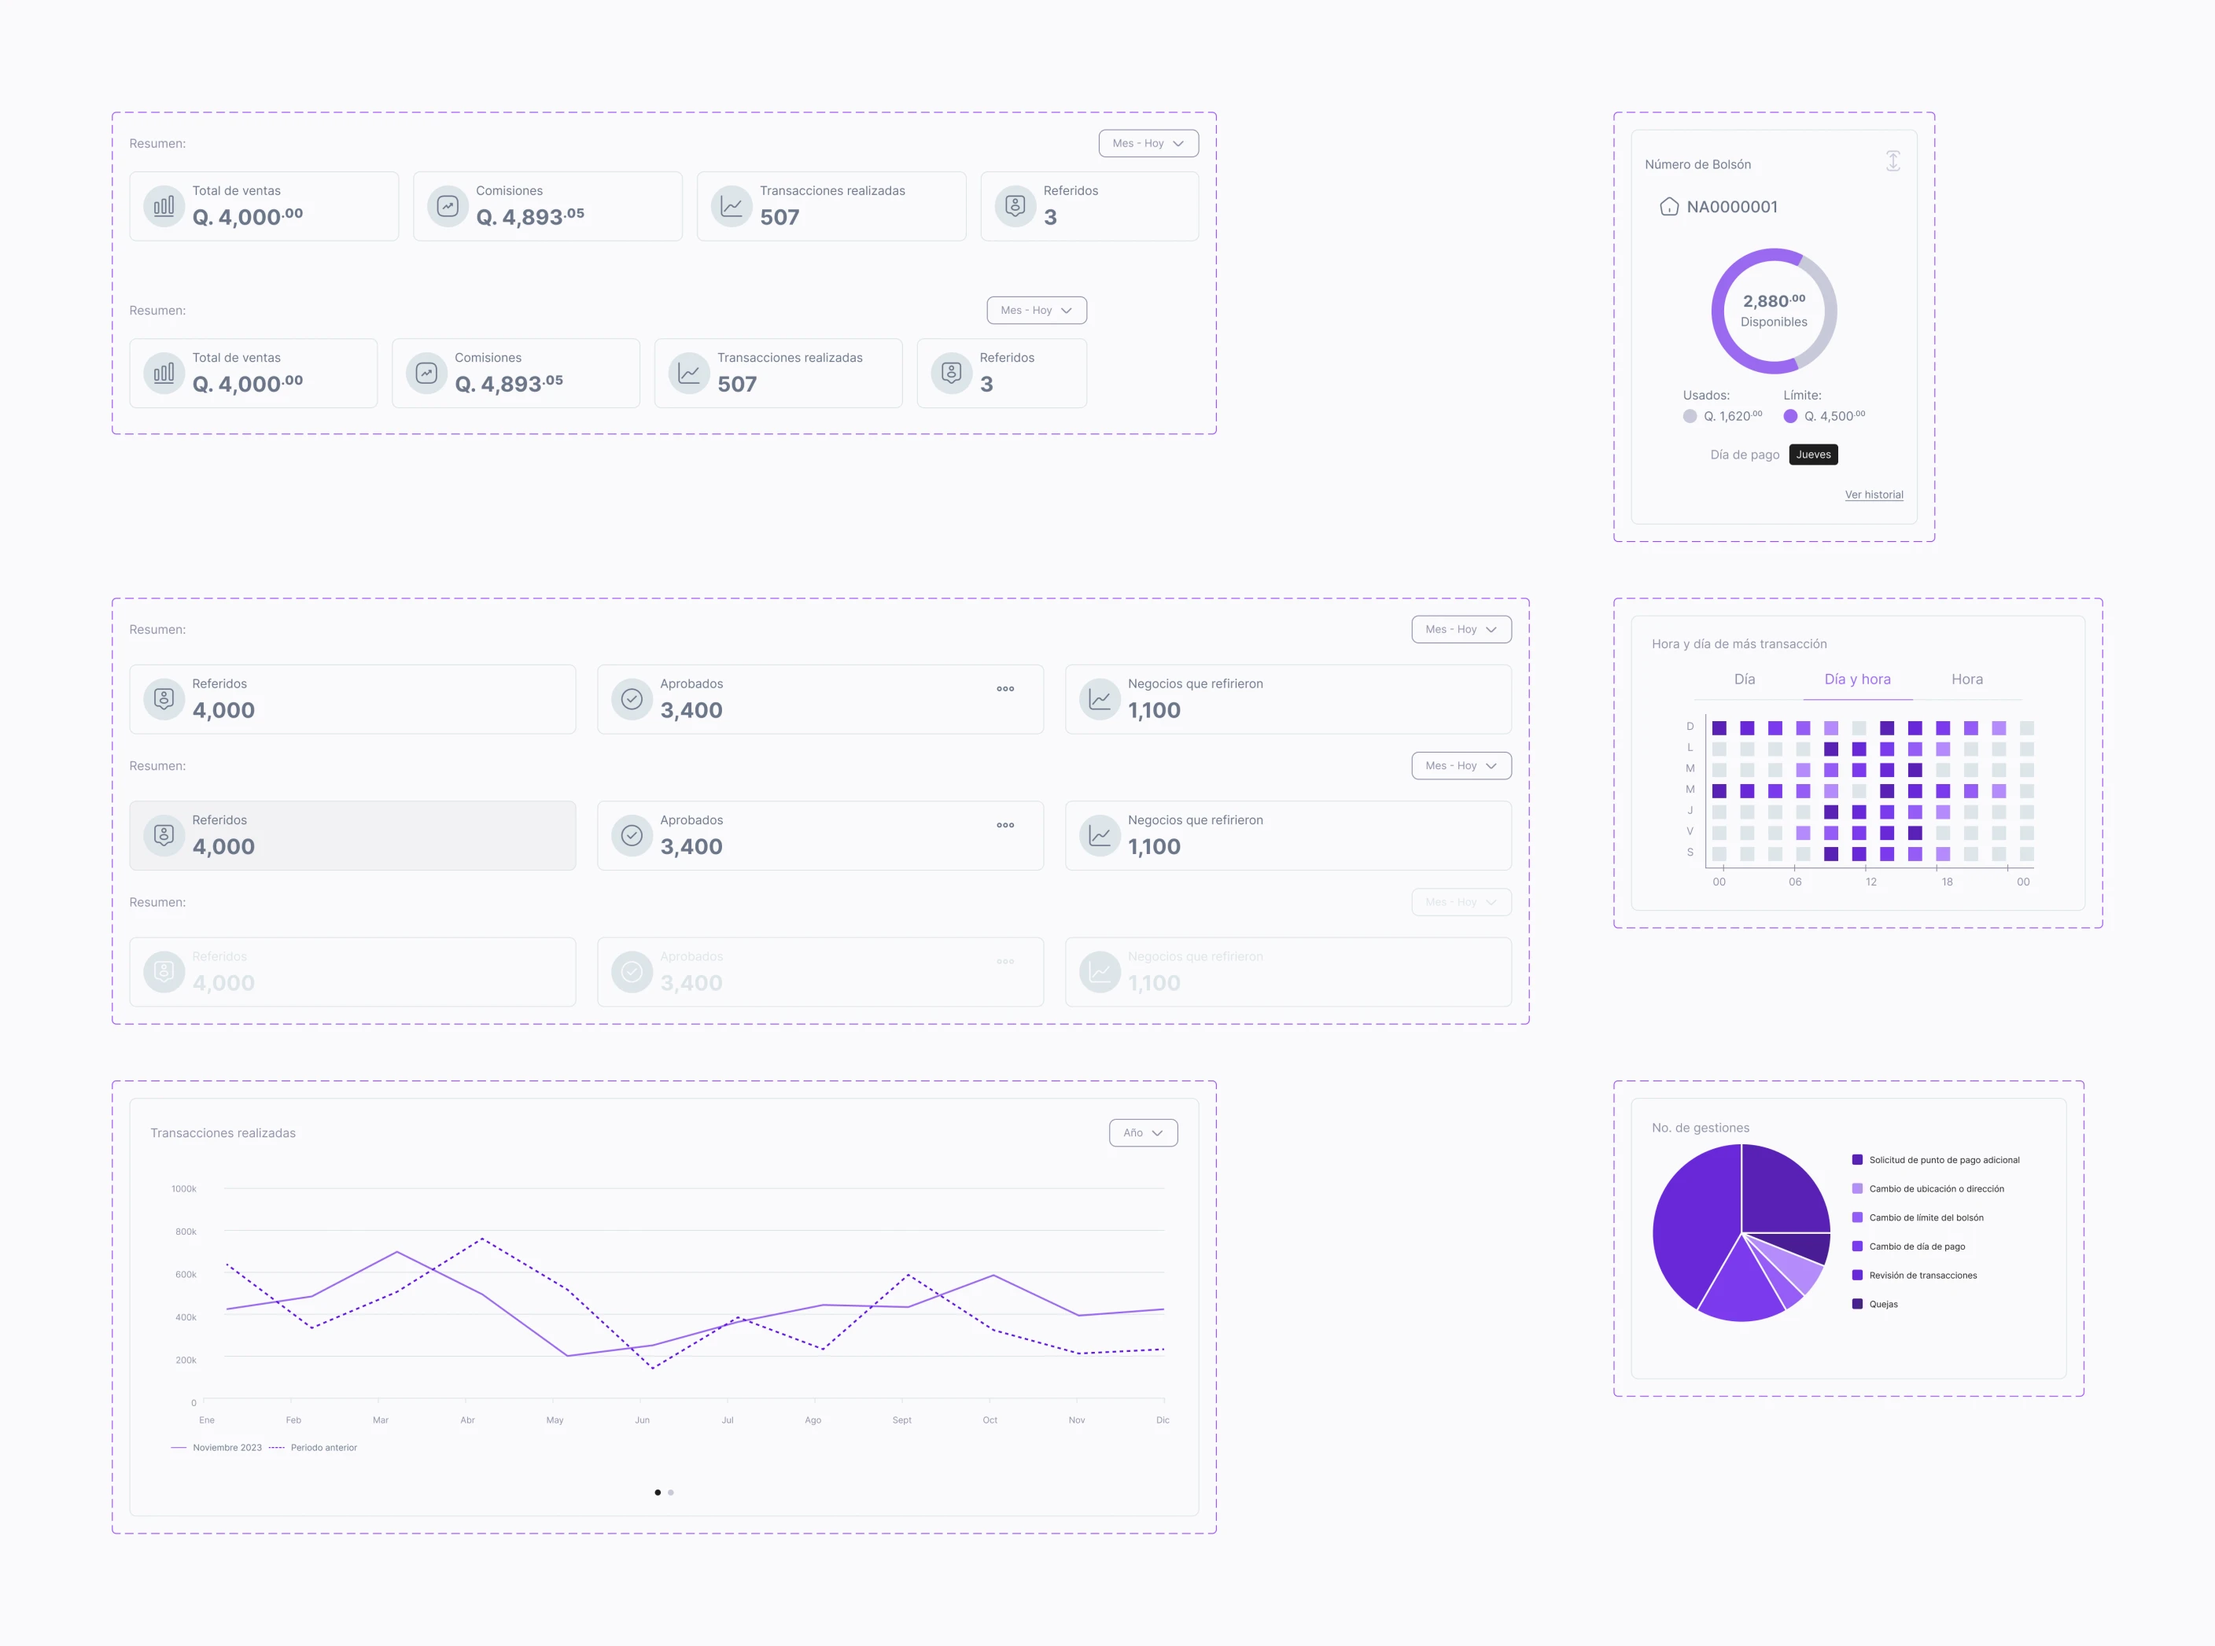
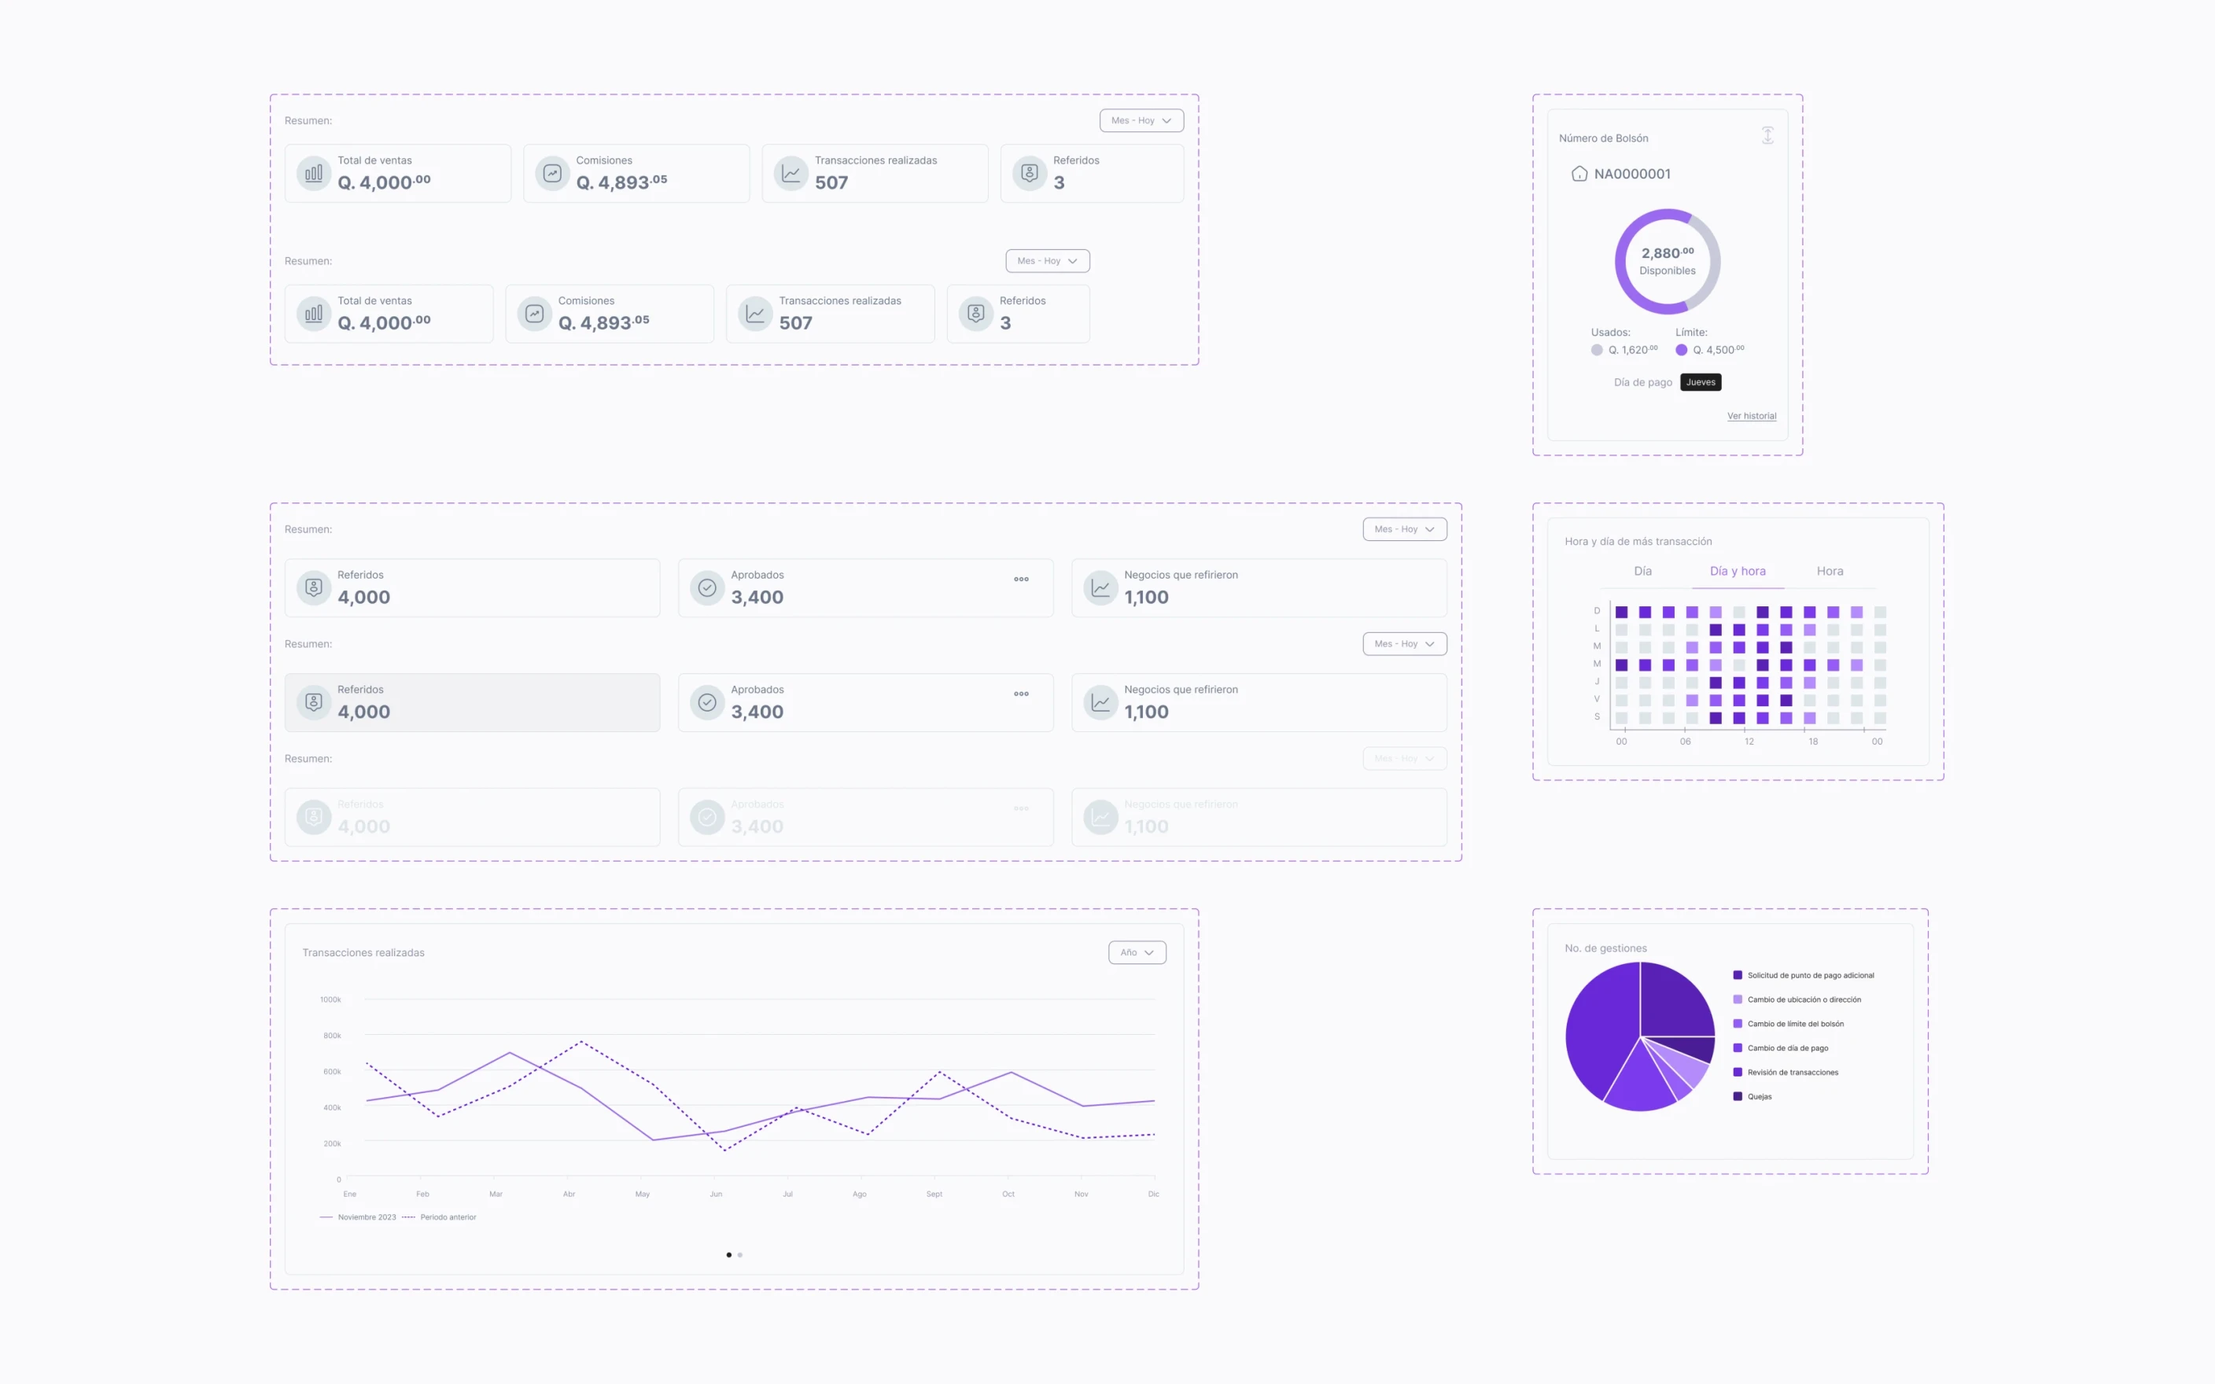
fix(work): frame the payments case captures whole
The cards-and-KPIs sheet is padded to 16:10 with its own background so
the cover crop no longer cuts its first and last rows. Role cards show
the admin content area and the accounting screen without slicing a
panel; the validation pairs open on the table card instead of cutting
the page title and the KPI cards.

diff --git a/shared/data/casePaymentsScenes.ts b/shared/data/casePaymentsScenes.ts
@@ -88,10 +88,10 @@ export const paymentsScenes = {
     title: L('Cuatro roles en un mismo ecosistema', 'Four roles in one ecosystem'),
     line: L('Cada rol entra a su propia vista y resuelve un dolor distinto.', 'Each role gets its own view and solves a different pain.'),
     roles: [
-      { name: L('Administración', 'Administration'), pain: L('Antes: operación manual, sin seguimiento central.', 'Before: manual operation, no central tracking.'), image: focus(screen('admin', L('Panel de administración de la red', 'Network administration dashboard')), 46, 0, 1.33) },
+      { name: L('Administración', 'Administration'), pain: L('Antes: operación manual, sin seguimiento central.', 'Before: manual operation, no central tracking.'), image: focus(screen('admin', L('Panel de administración de la red', 'Network administration dashboard')), 98.6, 0, 1.058) },
       { name: L('Coordinación', 'Coordination'), pain: L('Antes: papel y visitas repetidas, sin trazabilidad.', 'Before: paper and repeat visits, no traceability.'), image: focus(screen('bolson-1-solicitud', L('Vista del coordinador sobre un negocio afiliado', "Coordinator's view of an affiliated business")), 50, 50, 1.6) },
       { name: L('Negocio afiliado', 'Affiliated business'), pain: L('Antes: apertura lenta y gestiones sin seguimiento.', 'Before: slow opening and untracked requests.'), image: focus(screen('negocio-globo', L('Panel del negocio afiliado', 'Affiliated business panel'), 1920, 1000), 100, 18, 1.6) },
-      { name: L('Contabilidad', 'Accounting'), pain: L('Antes: hojas con datos repetidos y vouchers viejos.', 'Before: sheets with repeated data and outdated vouchers.'), image: focus(screen('f2-sobrante', L('Tabla contable de sobrante y faltante', 'Accounting overage and shortage table'), 1920, 1117), 30, 34, 1.4) },
+      { name: L('Contabilidad', 'Accounting'), pain: L('Antes: hojas con datos repetidos y vouchers viejos.', 'Before: sheets with repeated data and outdated vouchers.'), image: focus(screen('f2-sobrante', L('Tabla contable de sobrante y faltante', 'Accounting overage and shortage table'), 1920, 1117), 97.5, 0, 1.12) },
     ],
   },
 
@@ -196,7 +196,7 @@ export const paymentsScenes = {
       { name: L('Tablas y grids', 'Tables and grids'), text: L('Barra de acciones, celdas, etiquetas de estado, paginación y estado vacío de la tabla de datos.', 'Action bar, cells, status tags, pagination and the empty state of the data table.'), image: focus(screen('ds-tablas', L('Componentes de la tabla de datos: barra de acciones, celdas en dos tamaños, etiquetas de estado, paginación y estado vacío', 'Data table components: action bar, cells in two sizes, status tags, pagination and empty state'), 2816, 1611), 50, 50, 0.94), mat: '#f5f5f5' },
       { name: L('Modales y overlays', 'Modals and overlays'), text: L('Panel de notificaciones por prioridad y modal con listado.', 'Notification panel by priority and a list modal.'), image: focus(screen('ds-modales', L('Panel de notificaciones en dos variantes y modal con listado en dos variantes', 'Notification panel in two variants and list modal in two variants'), 2816, 1413), 50, 50, 0.8), mat: '#fafafc' },
       { name: L('Tooltips y stepper', 'Tooltips and stepper'), text: L('Tooltip en doce posiciones y steppers horizontal y vertical, con sus estados.', 'Tooltip in twelve positions and horizontal and vertical steppers, with their states.'), image: focus(screen('ds-tooltips', L('Tooltip en doce posiciones y steppers horizontal y vertical con sus estados', 'Tooltip in twelve positions and horizontal and vertical steppers with their states'), 2816, 1634), 50, 50, 0.95), mat: '#f5f5f5' },
-      { name: L('Tarjetas y KPIs', 'Cards and KPIs'), text: L('Tarjetas de resumen, el componente principal de bolsón, heatmaps, donas y la gráfica de transacciones con scroll horizontal.', 'Summary cards, the main bolsón component, heatmaps, donuts and the transactions chart with horizontal scroll.'), image: focus(screen('ds-tarjetas', L('Tarjetas de resumen en estado normal, hover y deshabilitado, tarjeta de bolsón con anillo, heatmap, dona y gráfica de transacciones', 'Summary cards in default, hover and disabled states, the bolsón card with its ring, heatmap, donut and transactions chart'), 2816, 2093), 50, 50, 0.84), mat: '#fafafc' },
+      { name: L('Tarjetas y KPIs', 'Cards and KPIs'), text: L('Tarjetas de resumen, el componente principal de bolsón, heatmaps, donas y la gráfica de transacciones con scroll horizontal.', 'Summary cards, the main bolsón component, heatmaps, donuts and the transactions chart with horizontal scroll.'), image: focus(screen('ds-tarjetas', L('Tarjetas de resumen en estado normal, hover y deshabilitado, tarjeta de bolsón con anillo, heatmap, dona y gráfica de transacciones', 'Summary cards in default, hover and disabled states, the bolsón card with its ring, heatmap, donut and transactions chart'), 2816, 1760), 50, 50, 1), mat: '#fafafc' },
     ],
     dashboards: {
       title: L('Componentes en ambos dashboards', 'Components across both dashboards'),
@@ -232,8 +232,8 @@ export const paymentsScenes = {
     before: L('Fase 1', 'Phase 1'),
     after: L('Fase 2', 'Phase 2'),
     tabs: [
-      { name: L('Sobrante y faltante', 'Overage and shortage'), before: focus(screen('f1-sobrante', L('Fase 1: tabla sin columna de estatus', 'Phase 1: table with no status column'), 1920, 1117), 71, 75, 1.3), after: focus(screen('f2-sobrante', L('Fase 2: tabla con columna de estatus al inicio', 'Phase 2: table with a status column first'), 1920, 1117), 71, 75, 1.3) },
-      { name: L('Confronta de bancos', 'Bank reconciliation'), before: focus(screen('f1-confronta', L('Fase 1: la columna se llamaba bolsón', 'Phase 1: the column was called bolsón'), 1920, 1117), 71, 20, 1.3), after: focus(screen('f2-confronta', L('Fase 2: la columna pasa a cuenta corriente', 'Phase 2: the column becomes current account'), 1920, 1117), 71, 20, 1.3) },
+      { name: L('Sobrante y faltante', 'Overage and shortage'), before: focus(screen('f1-sobrante', L('Fase 1: tabla sin columna de estatus', 'Phase 1: table with no status column'), 1920, 1117), 55, 100, 1.35), after: focus(screen('f2-sobrante', L('Fase 2: tabla con columna de estatus al inicio', 'Phase 2: table with a status column first'), 1920, 1117), 55, 100, 1.35) },
+      { name: L('Confronta de bancos', 'Bank reconciliation'), before: focus(screen('f1-confronta', L('Fase 1: la columna se llamaba bolsón', 'Phase 1: the column was called bolsón'), 1920, 1117), 55, 31, 1.35), after: focus(screen('f2-confronta', L('Fase 2: la columna pasa a cuenta corriente', 'Phase 2: the column becomes current account'), 1920, 1117), 55, 31, 1.35) },
     ],
   },
 
